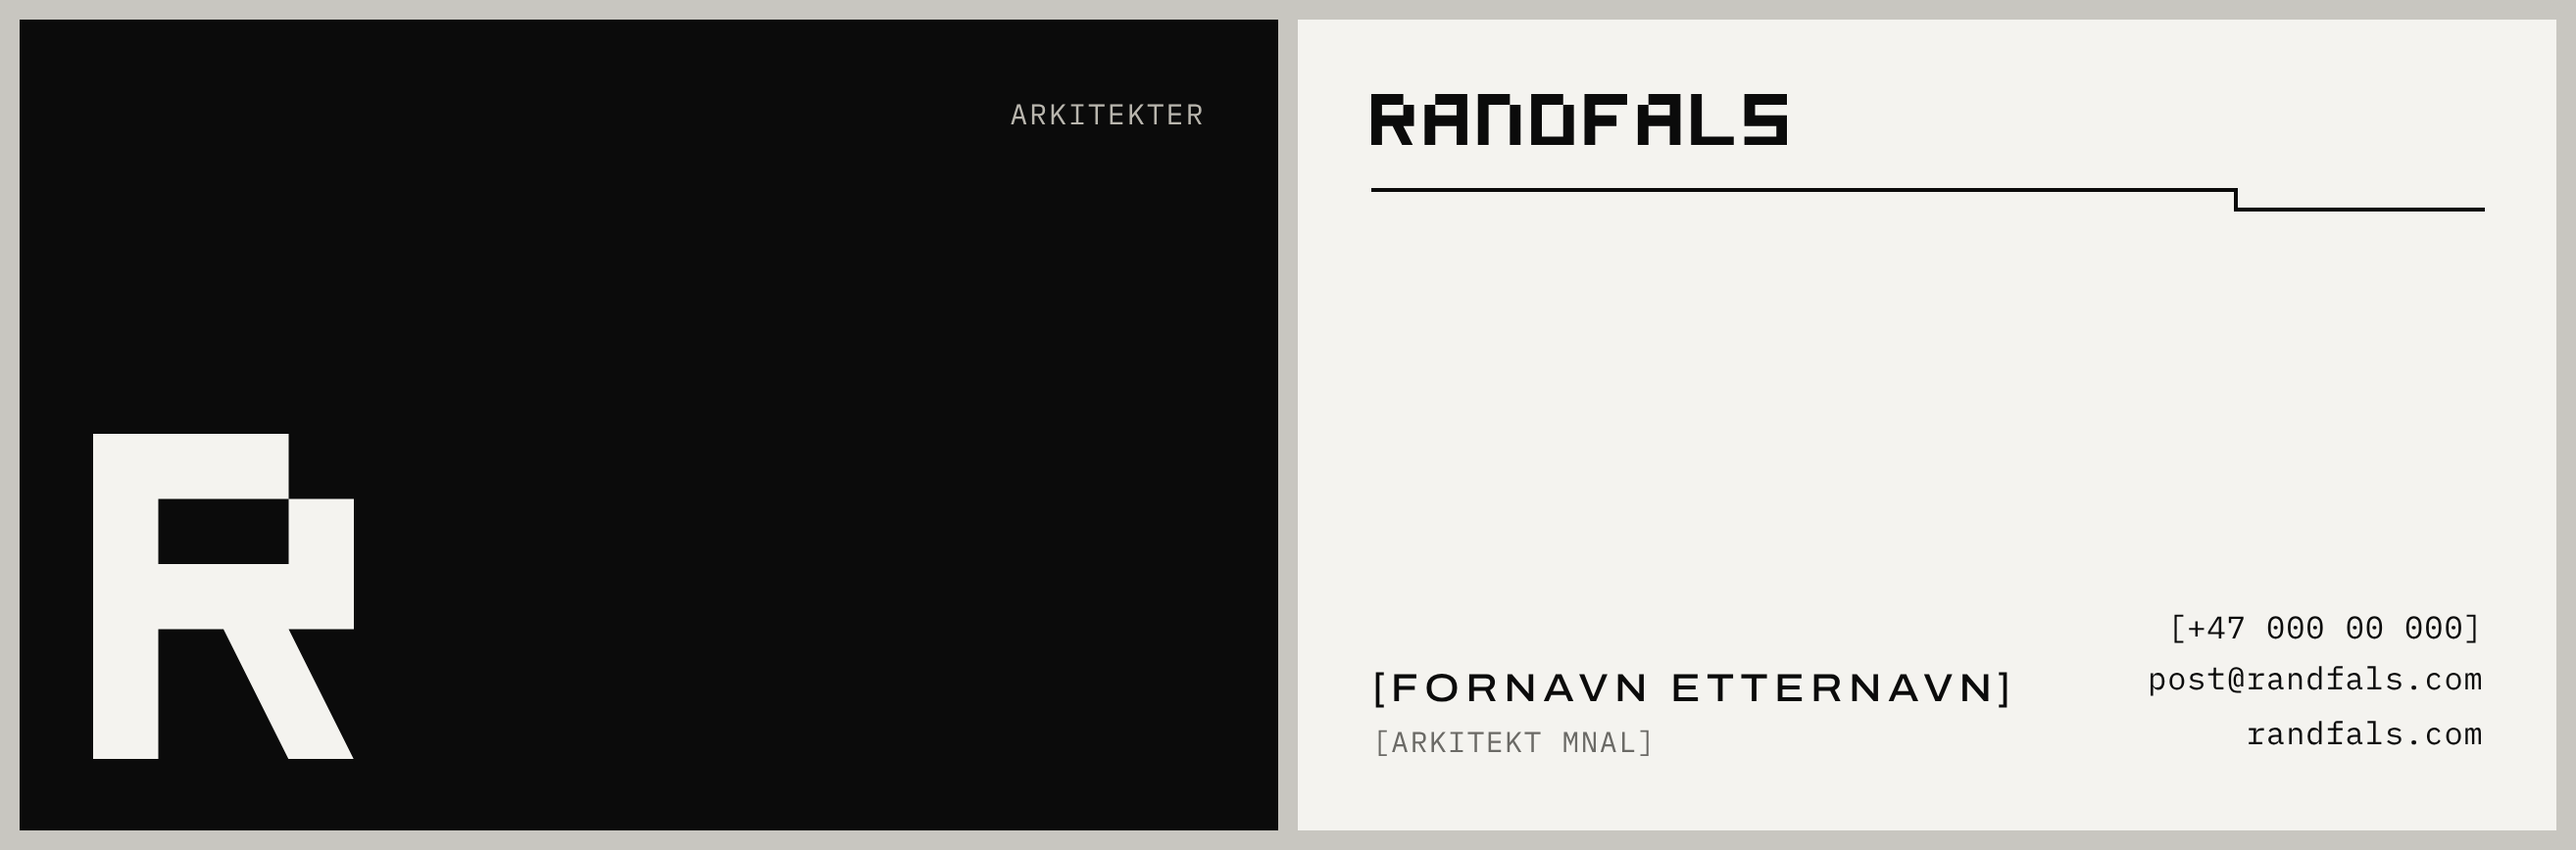
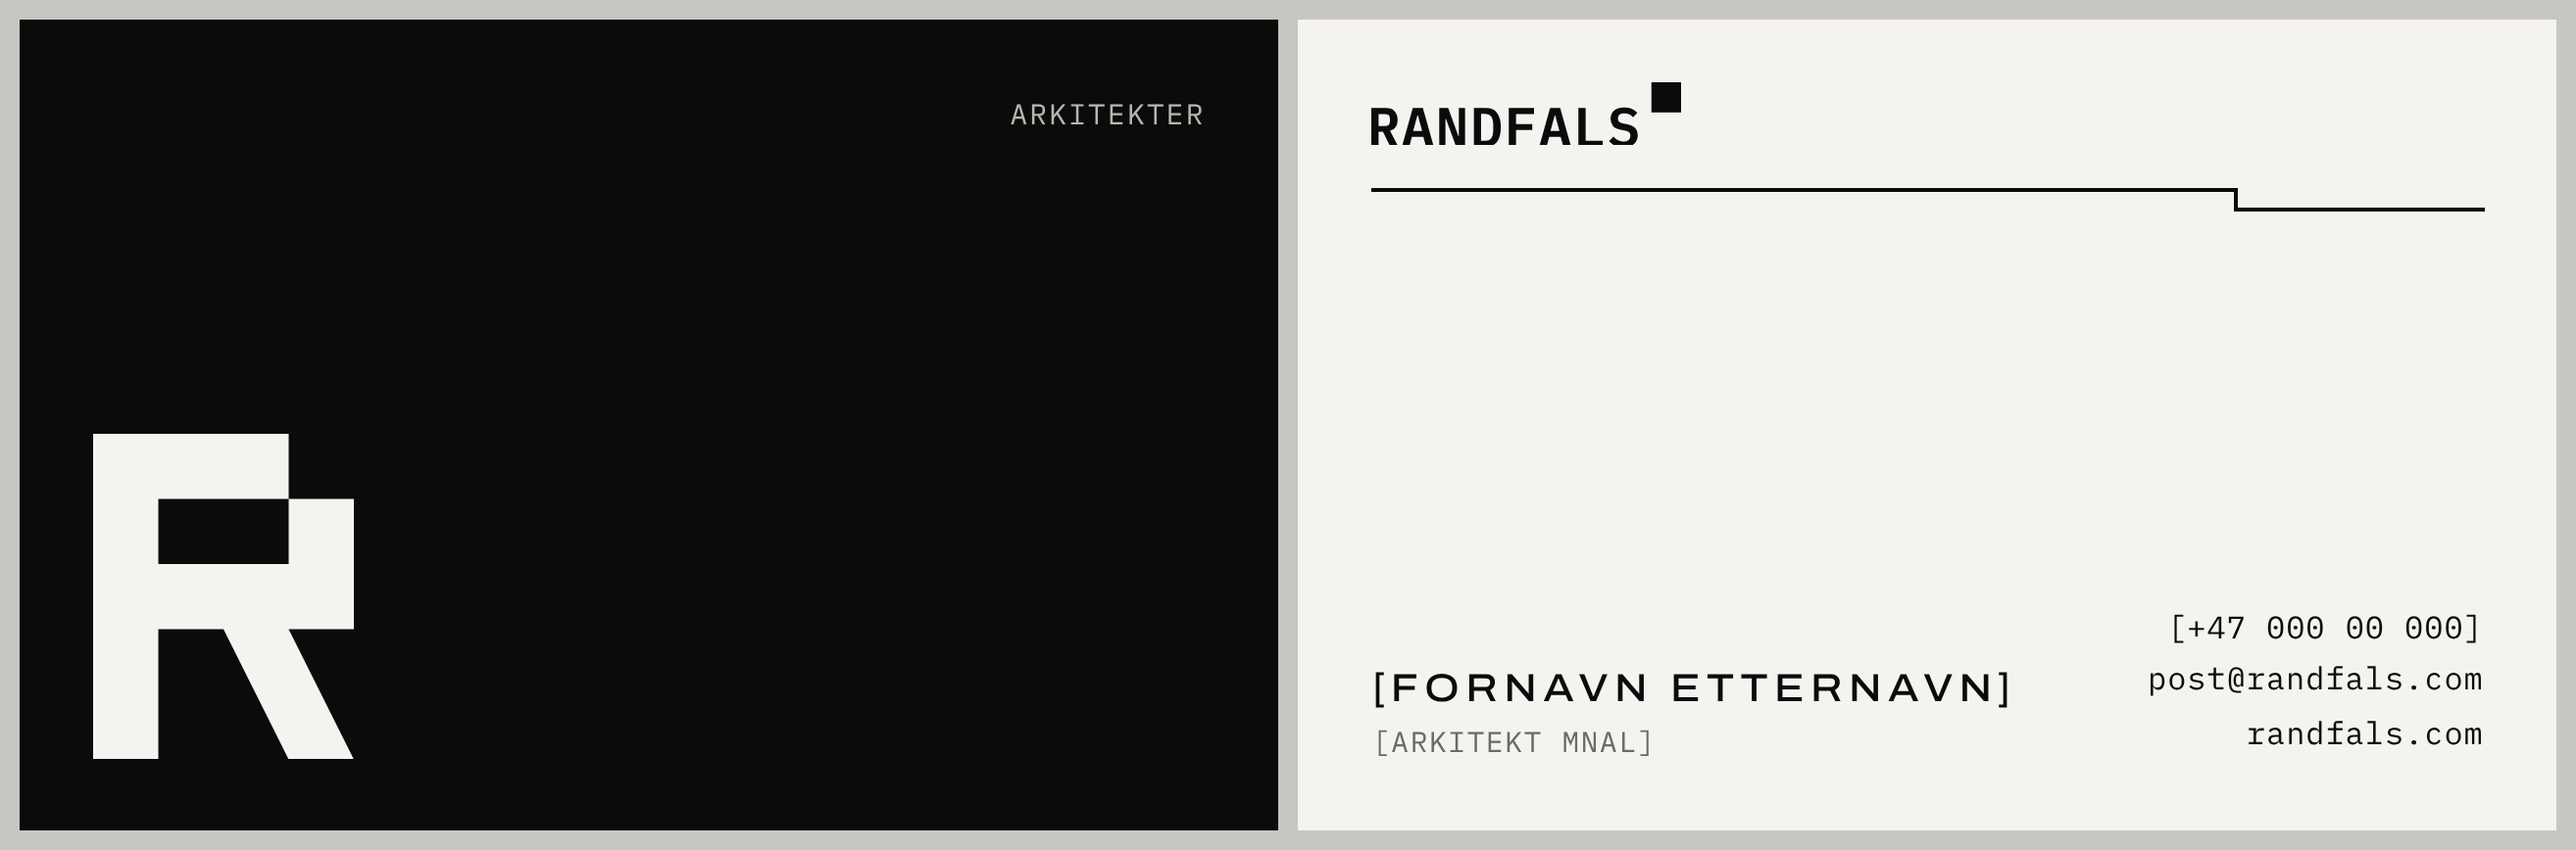
Lasteside ved nytt besøk, tekstlogo + R-symbol, forsiden tilbake
- js/laster.js: lasteside med ruteanimasjonen første gang siden åpnes i en
  fane, uansett side. Varer alltid 5 sekunder, toner så ut.
- Meny- og Om-logo tilbake til RANDFALS + firkant (tekstlogo).
- Forsidens store RANDFALS tilbake til Archivo som før; js/ordmerke.js fjernet.
- profil/: tekstlogo (SVG/PNG) i e-post, signatur, hilsen og visittkort;
  README beskriver logosystemet (tekstlogo, R-symbol, Modul-ordmerke).

Claude-Session: https://claude.ai/code/session_01VW7H4dc9PgK3MPdd2b4Ky6

Changed region(s): [[0.5304, 0.0933, 0.7177, 0.1866]]

diff --git a/js/laster.js b/js/laster.js
@@ -1,0 +1,64 @@
+/* RANDFALS — lasteside ved nytt besøk.
+   Vises første gang siden åpnes i en fane (sessionStorage), uansett hvilken side.
+   Modulruter blinker opp på tilfeldige steder til RANDFALS står i Randfals Modul.
+   Varer alltid 5 sekunder, så tones den ut. Kilde og flere formater: profil/animasjon/ */
+(() => {
+  "use strict";
+  const html = document.documentElement;
+  if (!html.classList.contains("laster")) return;
+  const VARIGHET = 5000, UT = 500, BUILD = 2.6, U = 140, COLS = 39, ROWS = 5, ns = "http://www.w3.org/2000/svg";
+  const D = "M0 700V0H420V140H560V420H420L560 700H420L280 420H140V700ZM140 280H420V140H140ZM700 700V140H840V0H1260V700H1120V420H840V700ZM840 280H1120V140H840ZM1400 700V0H1820V140H1960V700H1820V140H1540V700ZM2100 700V0H2520V140H2660V700ZM2240 560H2520V140H2240ZM2800 700V0H3360V140H2940V280H3220V420H2940V700ZM3500 700V140H3640V0H4060V700H3920V420H3640V700ZM3640 280H3920V140H3640ZM4200 700V0H4340V560H4760V700ZM4900 700V560H5320V420H4900V0H5460V140H5040V280H5460V700Z";
+
+  const lag = document.createElement("div");
+  lag.id = "laster";
+  lag.setAttribute("role", "img");
+  lag.setAttribute("aria-label", "RANDFALS");
+  lag.innerHTML = `<svg viewBox="-420 -420 6300 1540" aria-hidden="true" focusable="false">
+    <defs><mask id="laster-maske" maskUnits="userSpaceOnUse" x="0" y="0" width="5460" height="700"><g></g></mask></defs>
+    <g class="stoy" fill="currentColor"></g><path fill="currentColor" d="${D}"></path></svg>`;
+  document.body.prepend(lag);
+
+  const ferdig = () => {
+    lag.classList.add("ut");
+    setTimeout(() => {
+      lag.remove();
+      html.classList.remove("laster");
+      try { sessionStorage.setItem("randfals-besok", "1"); } catch (e) {}
+    }, UT);
+  };
+  setTimeout(ferdig, VARIGHET);
+
+  if (matchMedia("(prefers-reduced-motion: reduce)").matches) return;   // ferdig merke, uten blinking
+
+  const path = lag.querySelector("path"), gMaske = lag.querySelector("mask g"), gStoy = lag.querySelector(".stoy");
+  path.setAttribute("mask", "url(#laster-maske)");
+  let seed = 20261017;                      // fast frø: «tilfeldig», men likt hver gang
+  const rnd = () => { seed |= 0; seed = seed + 0x6D2B79F5 | 0; let t = Math.imul(seed ^ seed >>> 15, 1 | seed);
+    t = t + Math.imul(t ^ t >>> 7, 61 | t) ^ t; return ((t ^ t >>> 14) >>> 0) / 4294967296; };
+  const rute = (parent, x, y, fill) => { const r = document.createElementNS(ns, "rect");
+    r.setAttribute("x", x); r.setAttribute("y", y); r.setAttribute("width", U); r.setAttribute("height", U);
+    r.setAttribute("shape-rendering", "crispEdges");
+    if (fill) r.setAttribute("fill", fill); r.style.display = "none"; parent.appendChild(r); return r; };
+  const bli = [], stoy = [];
+  for (let c = 0; c < COLS; c++) for (let r = 0; r < ROWS; r++)
+    bli.push({ el: rute(gMaske, c * U, r * U, "#fff"), pa: 0.15 + Math.pow(rnd(), 0.75) * (BUILD - 0.15) });
+  for (let i = 0; i < 230; i++) {
+    const c = Math.floor(rnd() * 45) - 3, r = Math.floor(rnd() * 11) - 3;
+    const pa = Math.pow(rnd(), 1.3) * (BUILD - 0.25);
+    stoy.push({ el: rute(gStoy, c * U, r * U), pa, av: pa + 0.07 + rnd() * 0.2 });
+  }
+  const vis = (t) => {
+    for (const k of bli) k.el.style.display = t >= k.pa ? "" : "none";
+    for (const n of stoy) n.el.style.display = (t >= n.pa && t < n.av) ? "" : "none";
+  };
+  vis(0);
+  let t0 = null;
+  const ramme = (na) => {
+    if (t0 === null) t0 = na;
+    const t = (na - t0) / 1000;
+    vis(t);
+    if (t < BUILD) return requestAnimationFrame(ramme);
+    path.removeAttribute("mask"); gMaske.replaceChildren(); gStoy.replaceChildren();
+  };
+  requestAnimationFrame(ramme);
+})();

diff --git a/js/app.js b/js/app.js
@@ -10,8 +10,6 @@
   const esc = (s) => String(s ?? "").replace(/[&<>"']/g, (c) => ({ "&": "&amp;", "<": "&lt;", ">": "&gt;", '"': "&quot;", "'": "&#39;" }[c]));
   const lenke = (p) => `prosjekt.html?p=${encodeURIComponent(p.slug)}`;
   const nr = (i) => String(i + 1).padStart(2, "0");
-  // ordmerket i Randfals Modul (profil/logo/randfals-ordmerke-kull.svg)
-  const ORDMERKE = `<svg viewBox="0 0 5460 700" aria-hidden="true" focusable="false"><path fill="currentColor" d="M0 700V0H420V140H560V420H420L560 700H420L280 420H140V700ZM140 280H420V140H140ZM700 700V140H840V0H1260V700H1120V420H840V700ZM840 280H1120V140H840ZM1400 700V0H1820V140H1960V700H1820V140H1540V700ZM2100 700V0H2520V140H2660V700ZM2240 560H2520V140H2240ZM2800 700V0H3360V140H2940V280H3220V420H2940V700ZM3500 700V140H3640V0H4060V700H3920V420H3640V700ZM3640 280H3920V140H3640ZM4200 700V0H4340V560H4760V700ZM4900 700V560H5320V420H4900V0H5460V140H5040V280H5460V700Z"/></svg>`;
 
   const bilde = (b, { lat = true, alt } = {}) =>
     b ? `<img src="${esc(b.src)}" alt="${esc(alt ?? b.alt ?? "")}"${b.w ? ` width="${b.w}" height="${b.h}"` : ""}${lat ? ' loading="lazy"' : ""} decoding="async" draggable="false">` : "";
@@ -19,7 +17,7 @@
   /* ---------- felles: meny, bunn, tema, klokke ---------- */
   const nav = () => `
     <header class="nav">
-      <a href="./" class="logo" aria-label="${esc(D.navn)} — forside">${ORDMERKE}</a>
+      <a href="./" class="logo" aria-label="${esc(D.navn)} — forside">${esc(D.navn)}<i></i></a>
       <a href="liste.html" class="strek"${side === "liste" ? ' aria-current="page"' : ""}>Index</a>
       <a href="om.html" class="strek"${side === "om" ? ' aria-current="page"' : ""}>Om</a>
       <div class="nav-h">
@@ -92,12 +90,11 @@
         <section class="stripe${grov ? " native" : ""}" aria-label="Prosjekter">
           <div class="spor">${sett(false)}</div>
         </section>
-        <div class="ordmerke-boks"><h1 class="ordmerke ordmerke-modul" aria-label="${esc(D.navn)}"></h1></div>
+        <div class="ordmerke-boks"><h1 class="ordmerke inn" style="--i:2"><span>${esc(D.navn)}</span></h1></div>
         <p class="ingress inn" style="--i:4">${esc(D.ingress)}</p>
         ${bunn()}
       </main>`;
     felles();
-    if (window.RANDFALS_ordmerke) window.RANDFALS_ordmerke($(".ordmerke"));
     tilpassOrdmerke();
     $$(".kort").forEach((k, i) => (k.style.setProperty("--i", i), k.classList.add("inn")));
     $(".spor").addEventListener("click", (e) => {
@@ -293,7 +290,7 @@
           ${o.epost ? `<li><a href="mailto:${esc(o.epost)}">${esc(o.epost)}</a></li>` : ""}
           ${o.telefon ? `<li><a href="tel:${esc(o.telefon.replace(/\s/g, ""))}">${esc(o.telefon)}</a></li>` : ""}
         </ul></div>
-        ${o.logo ? `<div class="om-logo inn" style="--i:5" aria-hidden="true">${ORDMERKE}</div>` : o.bilde ? `<figure class="om-bilde vis-ved-scroll">${bilde(o.bilde)}</figure>` : ""}
+        ${o.logo ? `<div class="om-logo inn" style="--i:5" aria-hidden="true">${esc(D.navn)}<i></i></div>` : o.bilde ? `<figure class="om-bilde vis-ved-scroll">${bilde(o.bilde)}</figure>` : ""}
       </main>
       ${bunn()}`;
     felles();

diff --git a/css/stil.css b/css/stil.css
@@ -65,8 +65,8 @@ button { font: inherit; color: inherit; background: none; border: 0; cursor: poi
 }
 .nav > :nth-child(2), .nav > :nth-child(3) { justify-self: center; }
 .nav-h { justify-self: end; display: flex; align-items: center; gap: 12px; }
-.logo { display: inline-flex; align-items: center; min-height: 1.4em; }
-.logo svg { display: block; height: 9px; width: auto; }
+.logo { display: inline-flex; align-items: flex-start; gap: 2px; font-weight: 600; letter-spacing: 0.02em; }
+.logo i { width: 6px; height: 6px; background: currentColor; margin-top: -1px; }
 .tema { display: inline-flex; width: 22px; height: 11px; border: 1px solid currentColor; padding: 1px; }
 .tema span { width: 50%; height: 100%; background: currentColor; transition: transform 0.35s var(--ease); }
 .tema[aria-pressed="true"] span { transform: translateX(100%); }
@@ -99,9 +99,6 @@ body[data-side="hjem"] #app { min-height: 100svh; display: flex; flex-direction:
   padding-top: 0.06em;
 }
 .ordmerke span { display: inline-block; }
-/* animert ordmerke i Randfals Modul (js/ordmerke.js) — fyller bredden som før */
-.ordmerke.ordmerke-modul { font-size: 0; line-height: 0; padding-top: 0; }
-.ordmerke-modul svg { display: block; width: 100%; height: auto; margin-block: -2.56%; }
 .ingress { max-width: 74ch; margin: 18px auto 0; text-align: center; padding: 0 var(--pad); }
 
 .bunn { display: flex; justify-content: space-between; gap: 1em; padding: var(--pad); padding-top: 28px; }
@@ -162,8 +159,8 @@ body[data-side="hjem"] #app { min-height: 100svh; display: flex; flex-direction:
 .om-blokk a { border-bottom: 2px solid currentColor; }
 .om-blokk a:hover { opacity: 0.6; }
 .om-bilde { width: min(18vw, 300px); margin-top: 9vh; }
-.om-logo { margin-top: 9vh; }
-.om-logo svg { display: block; height: clamp(22px, 2.4vw, 38px); width: auto; }
+.om-logo { display: flex; width: max-content; align-items: flex-start; gap: 0.08em; margin-top: 9vh; font: 600 clamp(28px, 3vw, 48px)/1 var(--mono); letter-spacing: 0.02em; }
+.om-logo i { width: 0.22em; height: 0.22em; background: currentColor; margin-top: -0.04em; }
 
 /* ---------- Animasjon ---------- */
 .inn { animation: opp 0.9s var(--ease) both; animation-delay: calc(var(--i, 0) * 70ms); }
@@ -186,6 +183,14 @@ html.vt .inn { animation: none; }
   .vis-ved-scroll { opacity: 1; transform: none; transition: none; }
   * { transition-duration: 0.01ms !important; }
 }
+
+/* ---------- Lasteside (js/laster.js) — ved nytt besøk, 5 sekunder ---------- */
+html.laster, html.laster body { overflow: hidden; }
+html.laster #app { visibility: hidden; }
+html.laster .inn { animation-play-state: paused; }
+#laster { position: fixed; inset: 0; z-index: 1000; display: flex; align-items: center; justify-content: center; padding: var(--pad); background: var(--bg); color: var(--fg); transition: opacity 0.5s var(--ease); }
+#laster.ut { opacity: 0; }
+#laster svg { display: block; width: min(88vw, 1200px); height: auto; }
 
 /* ---------- Mobil ---------- */
 @media (max-width: 760px) {

diff --git a/index.html b/index.html
@@ -10,14 +10,15 @@
 <link rel="icon" href="favicon.svg" type="image/svg+xml">
 <link rel="apple-touch-icon" href="apple-touch-icon.png">
 <link rel="preload" href="fonts/archivo.woff2" as="font" type="font/woff2" crossorigin>
-<link rel="stylesheet" href="css/stil.css?v=3">
+<link rel="stylesheet" href="css/stil.css?v=4">
 <script>try{var t=localStorage.getItem("randfals-tema");if(t)document.documentElement.dataset.tema=t}catch(e){}</script>
+<script>try{if(!sessionStorage.getItem("randfals-besok"))document.documentElement.classList.add("laster")}catch(e){}</script>
 </head>
 <body data-side="hjem">
+<script src="js/laster.js?v=4"></script>
 <div id="app"></div>
 <noscript><p style="padding:20px">RANDFALS — slå på JavaScript for å se siden.</p></noscript>
-<script src="js/data.js?v=3"></script>
-<script src="js/ordmerke.js?v=3"></script>
-<script src="js/app.js?v=3"></script>
+<script src="js/data.js?v=4"></script>
+<script src="js/app.js?v=4"></script>
 </body>
 </html>

diff --git a/404.html b/404.html
@@ -10,13 +10,15 @@
 <link rel="icon" href="favicon.svg" type="image/svg+xml">
 <link rel="apple-touch-icon" href="apple-touch-icon.png">
 <link rel="preload" href="fonts/archivo.woff2" as="font" type="font/woff2" crossorigin>
-<link rel="stylesheet" href="css/stil.css?v=3">
+<link rel="stylesheet" href="css/stil.css?v=4">
 <script>try{var t=localStorage.getItem("randfals-tema");if(t)document.documentElement.dataset.tema=t}catch(e){}</script>
+<script>try{if(!sessionStorage.getItem("randfals-besok"))document.documentElement.classList.add("laster")}catch(e){}</script>
 </head>
 <body data-side="ikkefunnet">
+<script src="js/laster.js?v=4"></script>
 <div id="app"></div>
 <noscript><p style="padding:20px">RANDFALS — slå på JavaScript for å se siden.</p></noscript>
-<script src="js/data.js?v=3"></script>
-<script src="js/app.js?v=3"></script>
+<script src="js/data.js?v=4"></script>
+<script src="js/app.js?v=4"></script>
 </body>
 </html>

diff --git a/prosjekt.html b/prosjekt.html
@@ -10,13 +10,15 @@
 <link rel="icon" href="favicon.svg" type="image/svg+xml">
 <link rel="apple-touch-icon" href="apple-touch-icon.png">
 <link rel="preload" href="fonts/archivo.woff2" as="font" type="font/woff2" crossorigin>
-<link rel="stylesheet" href="css/stil.css?v=3">
+<link rel="stylesheet" href="css/stil.css?v=4">
 <script>try{var t=localStorage.getItem("randfals-tema");if(t)document.documentElement.dataset.tema=t}catch(e){}</script>
+<script>try{if(!sessionStorage.getItem("randfals-besok"))document.documentElement.classList.add("laster")}catch(e){}</script>
 </head>
 <body data-side="prosjekt">
+<script src="js/laster.js?v=4"></script>
 <div id="app"></div>
 <noscript><p style="padding:20px">RANDFALS — slå på JavaScript for å se siden.</p></noscript>
-<script src="js/data.js?v=3"></script>
-<script src="js/app.js?v=3"></script>
+<script src="js/data.js?v=4"></script>
+<script src="js/app.js?v=4"></script>
 </body>
 </html>

diff --git a/liste.html b/liste.html
@@ -10,13 +10,15 @@
 <link rel="icon" href="favicon.svg" type="image/svg+xml">
 <link rel="apple-touch-icon" href="apple-touch-icon.png">
 <link rel="preload" href="fonts/archivo.woff2" as="font" type="font/woff2" crossorigin>
-<link rel="stylesheet" href="css/stil.css?v=3">
+<link rel="stylesheet" href="css/stil.css?v=4">
 <script>try{var t=localStorage.getItem("randfals-tema");if(t)document.documentElement.dataset.tema=t}catch(e){}</script>
+<script>try{if(!sessionStorage.getItem("randfals-besok"))document.documentElement.classList.add("laster")}catch(e){}</script>
 </head>
 <body data-side="liste">
+<script src="js/laster.js?v=4"></script>
 <div id="app"></div>
 <noscript><p style="padding:20px">RANDFALS — slå på JavaScript for å se siden.</p></noscript>
-<script src="js/data.js?v=3"></script>
-<script src="js/app.js?v=3"></script>
+<script src="js/data.js?v=4"></script>
+<script src="js/app.js?v=4"></script>
 </body>
 </html>

diff --git a/om.html b/om.html
@@ -10,13 +10,15 @@
 <link rel="icon" href="favicon.svg" type="image/svg+xml">
 <link rel="apple-touch-icon" href="apple-touch-icon.png">
 <link rel="preload" href="fonts/archivo.woff2" as="font" type="font/woff2" crossorigin>
-<link rel="stylesheet" href="css/stil.css?v=3">
+<link rel="stylesheet" href="css/stil.css?v=4">
 <script>try{var t=localStorage.getItem("randfals-tema");if(t)document.documentElement.dataset.tema=t}catch(e){}</script>
+<script>try{if(!sessionStorage.getItem("randfals-besok"))document.documentElement.classList.add("laster")}catch(e){}</script>
 </head>
 <body data-side="om">
+<script src="js/laster.js?v=4"></script>
 <div id="app"></div>
 <noscript><p style="padding:20px">RANDFALS — slå på JavaScript for å se siden.</p></noscript>
-<script src="js/data.js?v=3"></script>
-<script src="js/app.js?v=3"></script>
+<script src="js/data.js?v=4"></script>
+<script src="js/app.js?v=4"></script>
 </body>
 </html>

diff --git a/profil/epost/randfals-epost-hilsen.html b/profil/epost/randfals-epost-hilsen.html
@@ -8,7 +8,7 @@
 <meta name="supported-color-schemes" content="light">
 <title>RANDFALS</title>
 <!--
-  RANDFALS — kort hilsen. Kun tekst, logo og ordmerket.
+  RANDFALS — kort hilsen. Kun tekst, symbollogo (R) og tekstlogo.
   Bilde: ligger på https://randfals.com/profil/epost/bilder/randfals-hilsen-logo.png
 -->
 <style>
@@ -29,7 +29,7 @@
       <p style="margin:0 0 40px 0">[Fornavn]</p>
     </td></tr>
     <tr><td class="px" style="padding:0 40px">
-      <a href="https://randfals.com" style="text-decoration:none"><img src="https://randfals.com/profil/epost/bilder/randfals-hilsen-logo.png" width="180" height="82" alt="RANDFALS" style="width:180px;height:82px"></a>
+      <a href="https://randfals.com" style="text-decoration:none"><img src="https://randfals.com/profil/epost/bilder/randfals-hilsen-logo.png" width="180" height="97" alt="RANDFALS" style="width:180px;height:97px"></a>
     </td></tr>
   </table>
 </td></tr>

diff --git a/profil/epost/randfals-epost-mal.html b/profil/epost/randfals-epost-mal.html
@@ -40,7 +40,7 @@
     <table role="presentation" width="100%" cellpadding="0" cellspacing="0">
     <tr>
       <td class="stack" valign="bottom" style="padding:0 0 18px 0">
-        <a href="https://randfals.com" style="text-decoration:none"><img src="https://randfals.com/profil/epost/bilder/randfals-ordmerke.png" width="220" height="28" alt="RANDFALS" style="width:220px;height:28px"></a>
+        <a href="https://randfals.com" style="text-decoration:none"><img src="https://randfals.com/profil/epost/bilder/randfals-tekstlogo.png" width="220" height="46" alt="RANDFALS" style="width:220px;height:46px"></a>
       </td>
       <td class="stack ref" valign="bottom" align="right" style="padding:0 0 20px 0;font-family:'IBM Plex Mono','Courier New',monospace;font-size:11px;letter-spacing:.06em;text-transform:uppercase;color:#6B6A66">
         [ÅR]_[STED]_[PROSJEKT]

diff --git a/profil/epost/randfals-signatur.html b/profil/epost/randfals-signatur.html
@@ -2,7 +2,7 @@
 <table role="presentation" cellpadding="0" cellspacing="0" style="border-collapse:collapse;font-family:Arial,Helvetica,sans-serif;color:#0B0B0B">
   <tr>
     <td colspan="2" style="padding:0 0 10px 0">
-      <a href="https://randfals.com" style="text-decoration:none"><img src="https://randfals.com/profil/epost/bilder/randfals-ordmerke.png" width="150" height="19" alt="RANDFALS" style="display:block;border:0;width:150px;height:19px"></a>
+      <a href="https://randfals.com" style="text-decoration:none"><img src="https://randfals.com/profil/epost/bilder/randfals-tekstlogo.png" width="150" height="32" alt="RANDFALS" style="display:block;border:0;width:150px;height:32px"></a>
     </td>
   </tr>
   <tr>

diff --git a/profil/kilde/lag_visittkort.py b/profil/kilde/lag_visittkort.py
@@ -9,7 +9,7 @@ def d_of(name):
     return re.search(r'viewBox="([^"]+)"', s).group(1), re.search(r' d="([^"]+)"', s).group(1)
 
 R_VB, R_D = d_of("randfals-R-kull")
-W_VB, W_D = d_of("randfals-ordmerke-kull")
+TEKSTLOGO = (ROOT / "logo/randfals-tekstlogo-kull.svg").read_text().replace("<svg ", '<svg class="ord" ', 1)
 FONT = (ROOT / "font/RandfalsModul-Regular.woff2").as_uri()
 ARCH = (ROOT / "font/partner/Archivo-wdth.woff2").as_uri()
 PLEX = (ROOT / "font/partner/IBMPlexMono-Regular.woff2").as_uri()
@@ -32,7 +32,7 @@ body{{-webkit-print-color-adjust:exact;print-color-adjust:exact}}
 .forside .r{{position:absolute;left:8mm;bottom:8mm;height:22mm}}
 .forside .m{{position:absolute;right:8mm;top:8mm;font-family:'IBM Plex Mono','Courier New',monospace;font-size:5.5pt;letter-spacing:.08em;color:#B9B6AE;text-transform:uppercase}}
 .bakside{{background:#F4F3EF;color:#0B0B0B}}
-.bakside .ord{{position:absolute;left:8mm;top:8mm;height:3.6mm}}
+.bakside .ord{{position:absolute;left:8mm;top:7.2mm;height:4.4mm}}
 .fals{{position:absolute;left:8mm;right:8mm;top:14.5mm;height:1.6mm}}
 .fals i{{position:absolute;left:0;top:0;width:78%;height:100%;border-top:.25mm solid #0B0B0B;border-right:.25mm solid #0B0B0B}}
 .fals b{{position:absolute;left:78%;right:0;bottom:0;border-bottom:.25mm solid #0B0B0B}}
@@ -46,7 +46,7 @@ body{{-webkit-print-color-adjust:exact;print-color-adjust:exact}}
   <div class="m">Arkitekter</div>
 </section>
 <section class="side bakside">
-  <svg class="ord" viewBox="{W_VB}"><path fill="#0B0B0B" d="{W_D}"/></svg>
+  {TEKSTLOGO}
   <div class="fals"><i></i><b></b></div>
   <div class="navn"><p>{NAVN}</p><p>{TITTEL}</p></div>
   <div class="kontakt">{TLF}<br>post@randfals.com<br>randfals.com</div>
